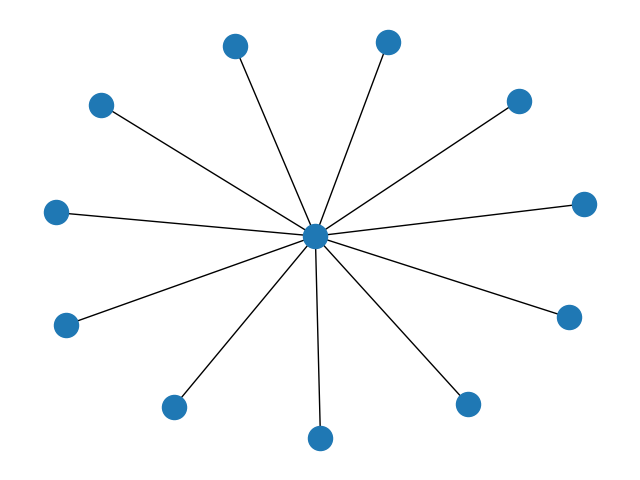
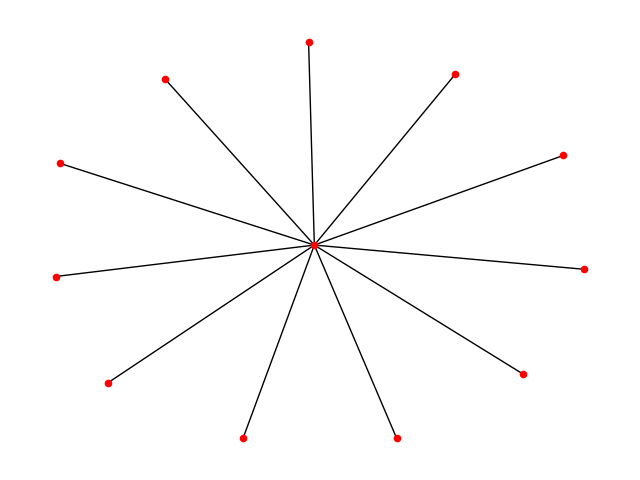
fixed AC atom labeling, removed self loops, added graph coloring

diff --git a/ac2mol.py b/ac2mol.py
@@ -322,7 +322,7 @@ def AC2BO(AC, atoms, charge, allow_charged_fragments=True, use_graph=True):
         # valence can't be smaller than number of neighbourgs
         possible_valence = [x for x in atomic_valence[atomicNum] if x >= valence]
         if not possible_valence:
-            print('Valence of atom',i,'is',valence,'which bigger than allowed max',max(atomic_valence[atomicNum]),'. Stopping')
+            #print('Valence of atom',i,'is',valence,'which bigger than allowed max',max(atomic_valence[atomicNum]),'. Stopping')
             # fill in something that will allow for bad structures, just not do anything
             # sys.exit()
             return None
@@ -380,6 +380,8 @@ def BO2Mol(BO, atoms):
     BO = BO[0]
     
     # you cannot have a bond order larger than 3
+    if BO.shape[0] != 6:
+        return None
     if np.any(BO > 3):
         return None
     
@@ -447,16 +449,17 @@ def AC2Mol(AC, atoms, charge = 0 , allow_charged_fragments=True, use_graph=True)
 
 
 def Mol2Smiles(mol):
-    return MolToSmiles(mol, isomericSmiles = True)
+    return MolToSmiles(mol, isomericSmiles = True, allHsExplicit=True, ignoreAtomMapNumbers=False, canonical=False, allBondsExplicit = True)
 
 def Smiles2AC(smiles):
-    mol =  MolFromSmiles(smiles)
-    return Mol2AC
+    mol =  MolFromSmiles(smiles, sanitize = False)
+    ac, atoms = Mol2AC(mol)
+    return ac, atoms
 
 def AC2Smiles(AC, atoms):
     mol = AC2Mol(AC, atoms)
-    return MolToSmiles(mol, isomericSmiles = True)
-
+    smiles = Mol2Smiles(mol)
+    return smiles
 def Mol2AC(mol):
     """ converts RDKit molecule back into AC
 

diff --git a/reaction_network.py b/reaction_network.py
@@ -20,20 +20,36 @@ C2F2H2_atoms_int = ac2mol.int_atom(C2F2H2_atoms)
 
 G = nx.Graph()
 C2F2H2_smiles = ac2mol.AC2Smiles(C2F2H2_AC, C2F2H2_atoms_int)
-G.add_node(C2F2H2_smiles)
+G.add_node(C2F2H2_smiles, color = 'purple')
 smiles_list.append(C2F2H2_smiles)
 
-smile_list, G = con.update_graph(C2F2H2_AC, C2F2H2_atoms_int, smiles_list, G)
+con.update_graph(C2F2H2_AC, C2F2H2_atoms_int, smiles_list, G, 'red')
 
-nx.draw(G)
-plt.savefig('first_iter.png')
 
 # first round of intermediates
 inter_1 = con.create_intermediates(C2F2H2_AC, C2F2H2_atoms_int)
 
+inter_2 = []
 for i in inter_1:
     ac = ac2mol.Mol2AC(i)
-    smiles_list, G = con.update_graph(ac[0], ac[1], smiles_list, G)
+    smiles_list, G, new_smile = con.update_graph(ac[0], ac[1], smiles_list, G, 'green')
+    inter_2 = inter_2 + new_smile
+    
+# pos = nx.spring_layout(G, seed = 42)
+# nx.draw(G, pos, node_size=20, node_color='green')
+# plt.savefig('second_iter.png')
 
-nx.draw(G)
-plt.savefig('second_iter.png')
+
+# is it failing here
+print("Does it get here?")
+inter_3 = []
+for i in inter_2:
+    ac = ac2mol.Smiles2AC(i)
+    print(ac[0])
+    print(ac[1])
+    con.update_graph(ac[0], ac[1], smiles_list, G, 'blue')
+
+node_colors = [G.nodes[node]['color'] for node in G.nodes()] 
+pos = nx.spring_layout(G, seed = 42)
+nx.draw(G, pos, node_color = node_colors, node_size=20)
+plt.savefig('third_iter.png')

diff --git a/conversion.py b/conversion.py
@@ -158,7 +158,7 @@ def create_intermediates(reactant, atoms):
 
 # ------------------ updating the set and adding it to the reaction Graph --------------------------    
 
-def update_graph(reactant, atoms, smiles_list, G):
+def update_graph(reactant, atoms, smile_list, G, col):
     """ updates our ac set for unique structures
 
     Args:
@@ -169,18 +169,21 @@ def update_graph(reactant, atoms, smiles_list, G):
         ac_set: the set of unique AC matrices
         G: updated graph
     """
+    new_smiles = []
     mol_intermediates = create_intermediates(reactant, atoms)
-    
+    reactant_smiles = ac2mol.AC2Smiles(reactant, atoms)
     # update ac_set and nodes
     for i in mol_intermediates:
         mol_smiles = ac2mol.Mol2Smiles(i)
-        if mol_smiles not in smiles_list:
-            smiles_list.append(mol_smiles)
-            G.add_node(mol_smiles)
+        if mol_smiles not in smile_list:
+            new_smiles.append(mol_smiles)
+            smile_list.append(mol_smiles)
+            G.add_node(mol_smiles, color = col)
         # add edge
-        G.add_edge(ac2mol.AC2Smiles(reactant, atoms), mol_smiles)
+        if reactant_smiles != mol_smiles:
+            G.add_edge(reactant_smiles, mol_smiles)
     
-    return smiles_list, G
+    return smile_list, G, new_smiles
     
 
 

diff --git a/test.py b/test.py
@@ -96,10 +96,9 @@ best_isomer = C2F2H2
 C2F2H2_intermediates = con.create_intermediates(C2F2H2_AC, C2F2H2_atoms_int)
 
 for i in C2F2H2_intermediates:
-    AC = ac2mol.Mol2AC(i)[0]
-    atoms_int = ac2mol.Mol2AC(i)[1]
-    print(AC)
-    print(atoms_int)
-    inters = con.create_intermediates(AC, atoms_int)
-    for j in inters:
-        con.draw_molecules(j)
+    i_ac = ac2mol.Mol2AC(i)
+    inter = con.create_intermediates(i_ac[0],i_ac[1])
+    for j in inter:
+        print(ac2mol.Mol2AC(j)[1])
+        
+    
